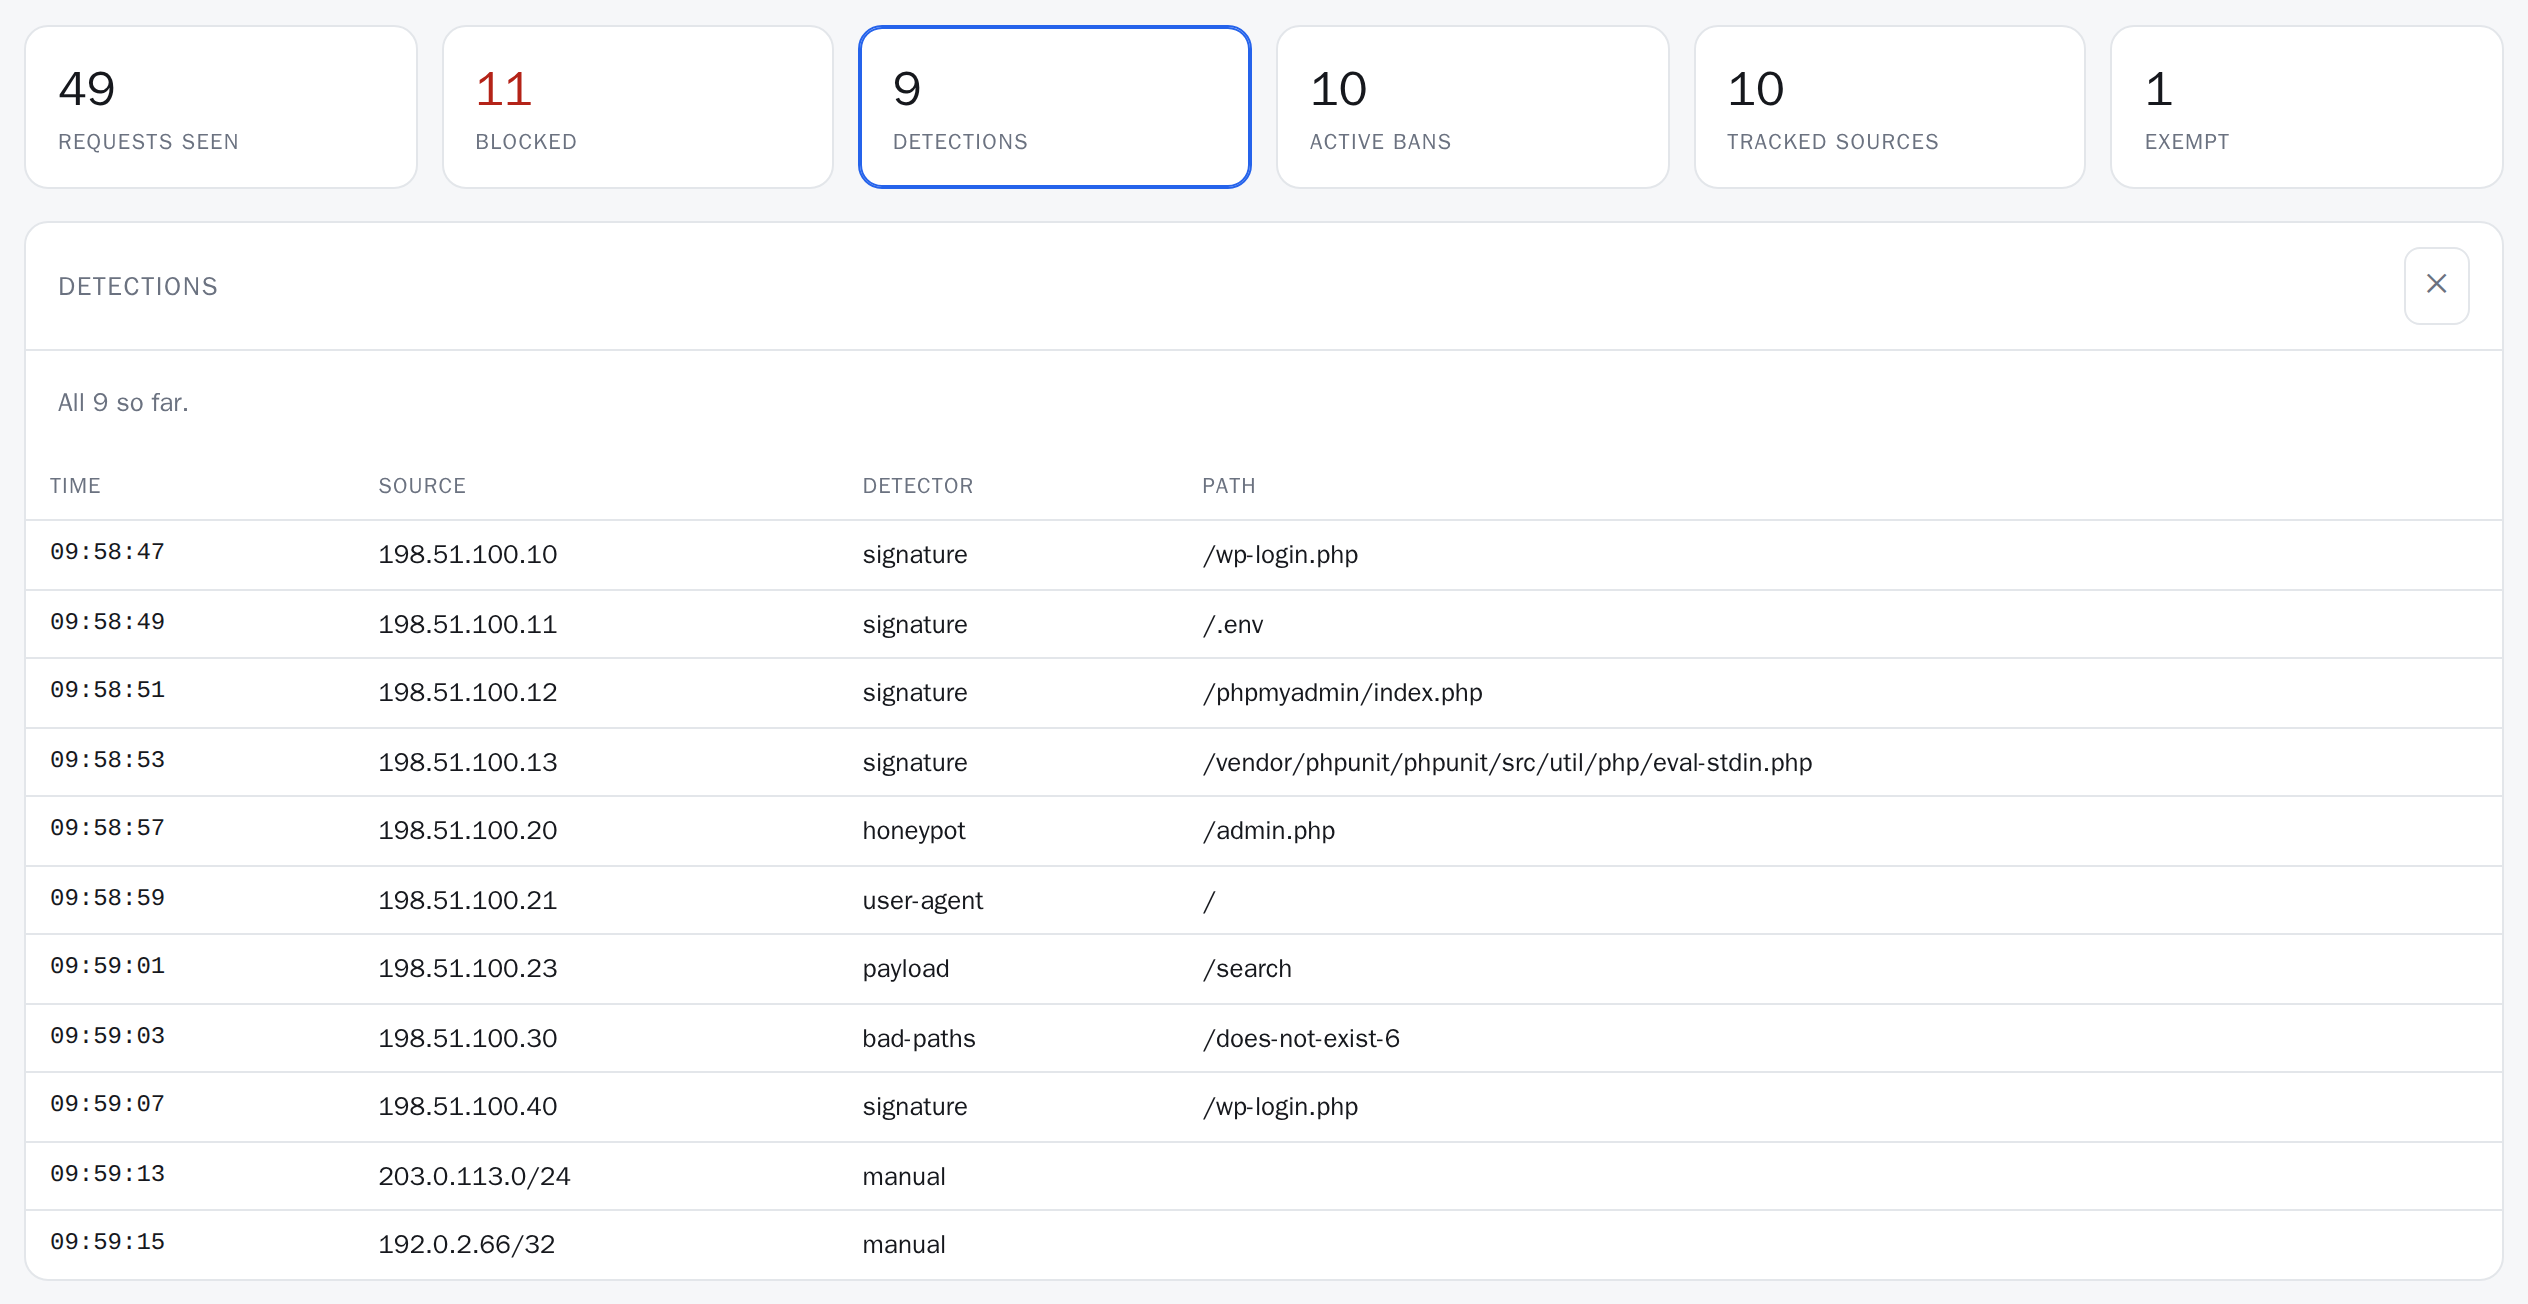
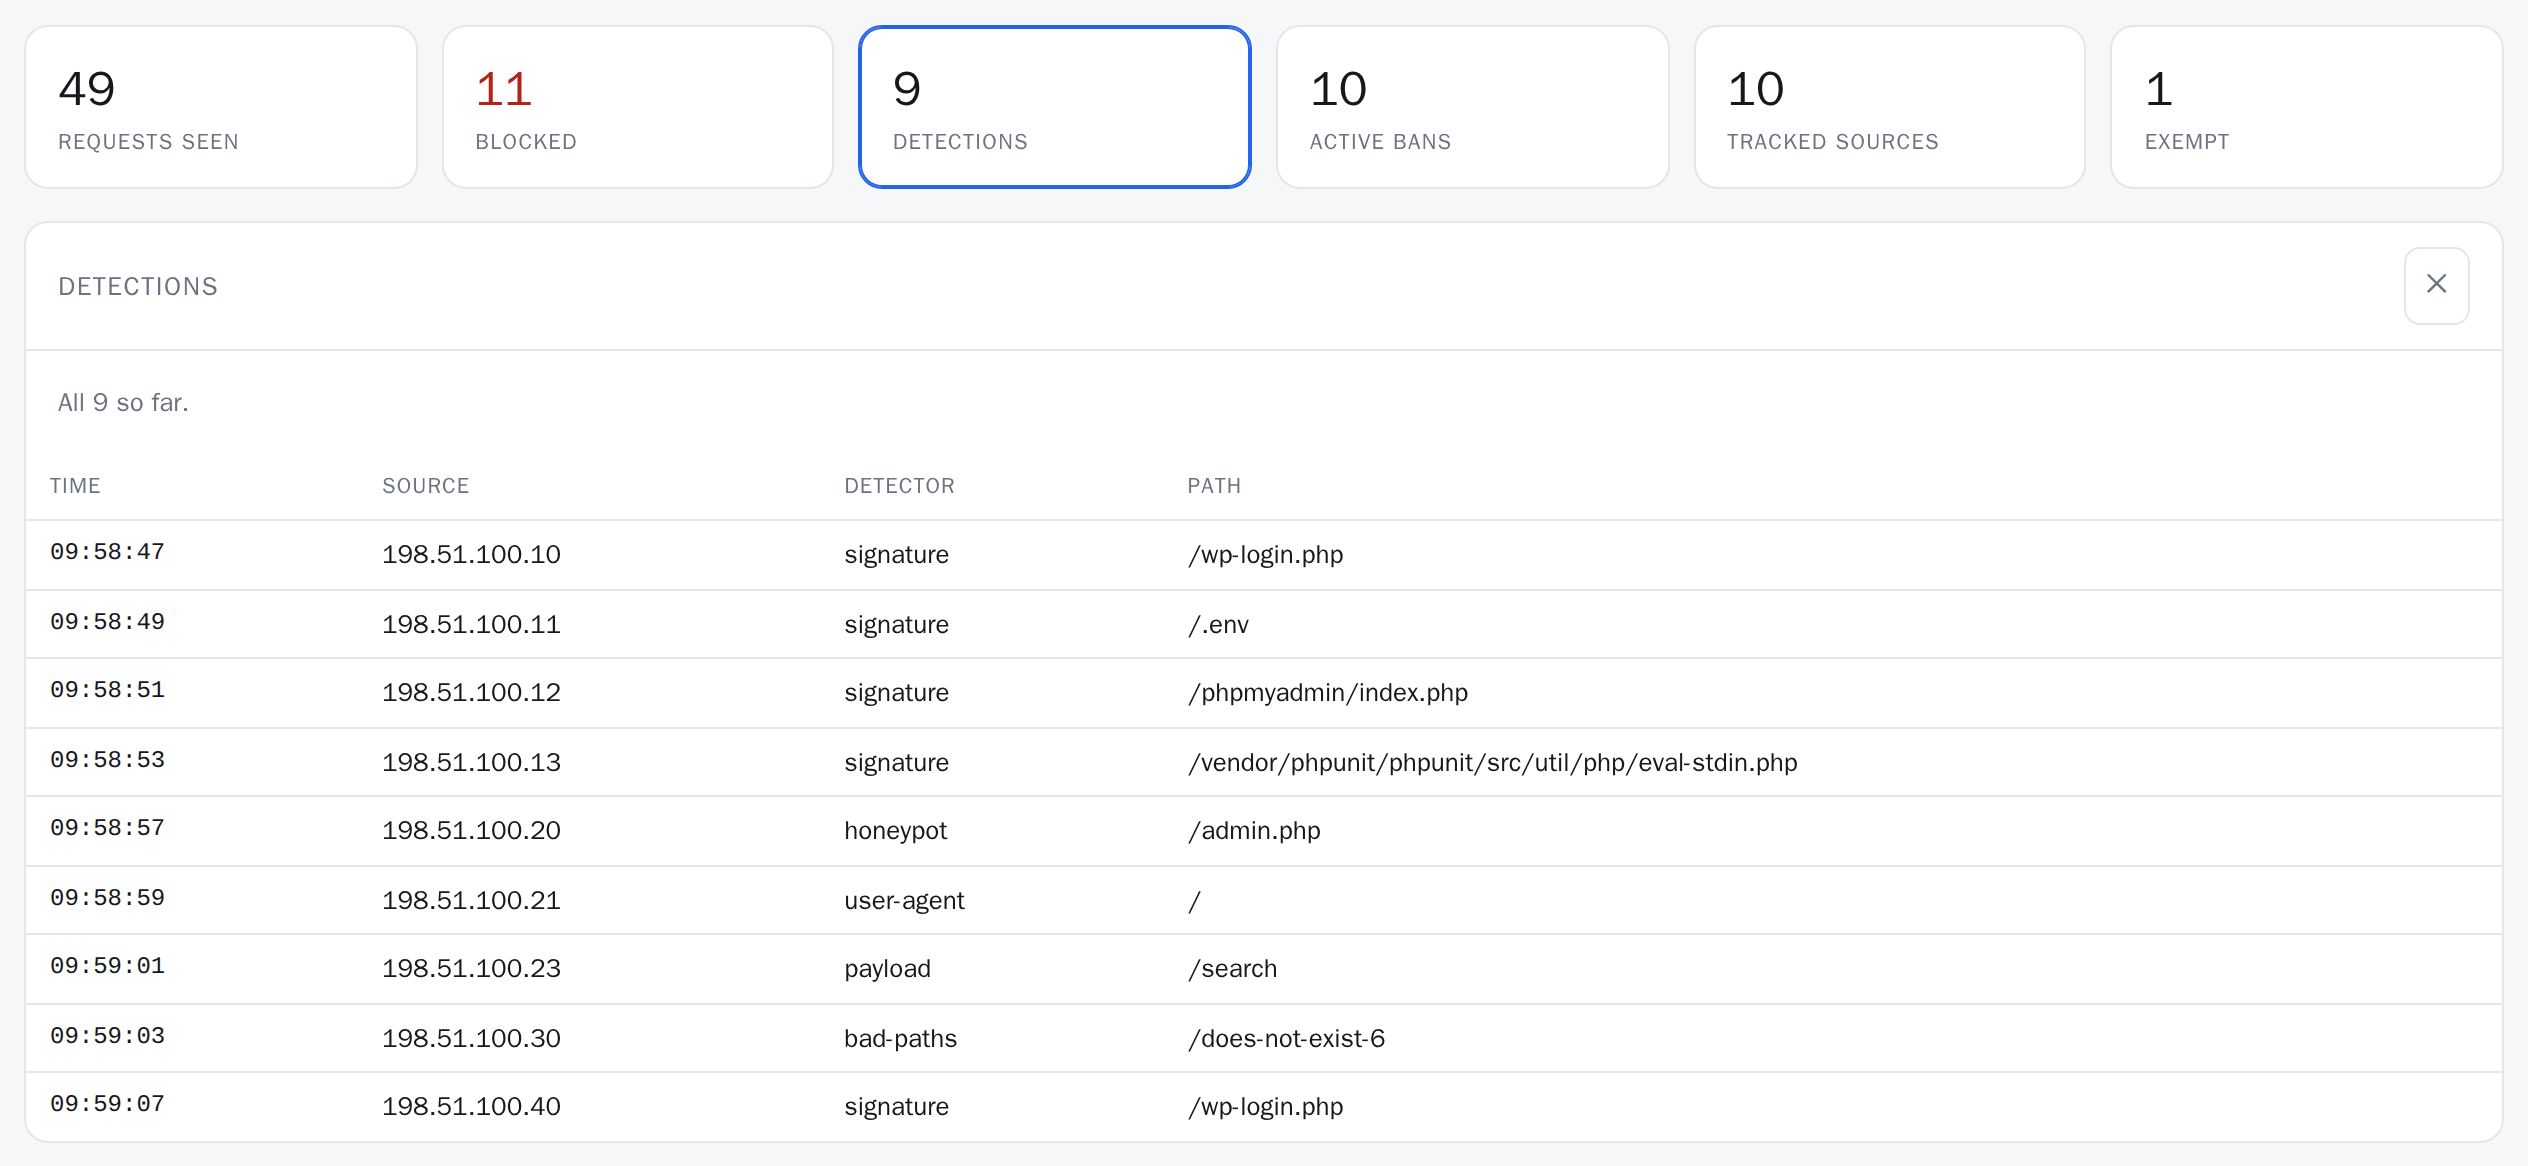
Leave manual bans out of the Detections drill-down
The Detections tile counts detector bans only, but its list showed every
ban event, so it said "All 9 so far." over 11 rows. The list now skips
manual bans, which the Active bans panel and the activity feed still
show. The tour checks that note and row count match the counter; the
drill-down screenshot and its captions are updated.

diff --git a/e2e/docs/tour.spec.ts b/e2e/docs/tour.spec.ts
@@ -162,10 +162,13 @@ test.describe('with bans', () => {
   })
 
   test('tile drill-down', async ({ page }) => {
+    const { stats } = await api<{ stats: { detections: number } }>('/api/state')
     await open(page)
     await page.click('.tile[data-kind=detections]')
     await expect(page.locator('#tile-detail-title')).toHaveText('Detections')
-    await expect(page.locator('#tile-detail-body tbody tr').first()).toBeVisible()
+    // The list matches its counter: manual bans are not detections.
+    await expect(page.locator('#tile-detail-note')).toHaveText(`All ${stats.detections} so far.`)
+    await expect(page.locator('#tile-detail-body tbody tr')).toHaveCount(stats.detections)
     await shoot(page, 'console-tile-detail', [page.locator('#tiles'), page.locator('#tile-detail')])
   })
 

diff --git a/admin_ui.go b/admin_ui.go
@@ -543,7 +543,9 @@ var TILE_DETAIL = {
     cols: ["time", "source", "detector", "path"],
     events: "ban",
     rows: function (s) {
-      return (s.events || []).filter(function (e) { return e.kind === "ban"; })
+      // Manual bans are ban events too, but not detections: the tile's counter
+      // leaves them out, so the list does as well.
+      return (s.events || []).filter(function (e) { return e.kind === "ban" && e.detector !== "manual"; })
         .slice().reverse().map(function (e) {
           return [fmtTime(e.time) + (e.dryRun ? " (dry)" : ""), e.client || e.key, e.detector, e.path];
         });

diff --git a/README.md b/README.md
@@ -57,7 +57,7 @@ editor**. It is one self-contained page: no build step, no npm, no CDN.
 
 <img src="docs/screenshots/console-activity.png" alt="The live activity feed filtered to bans: time, source, detector, method, path and the rule that fired" width="800">
 
-<img src="docs/screenshots/console-tile-detail.png" alt="The detections tile opened: each ban with its time, source, detector and path" width="800">
+<img src="docs/screenshots/console-tile-detail.png" alt="The detections tile opened: each detection with its time, source, detector and path" width="800">
 
 <img src="docs/screenshots/console-rule-editor.png" alt="The rule editor with an unsaved honeypot path: one form group per detector, the changed field marked" width="800">
 

diff --git a/docs/screenshots/README.md b/docs/screenshots/README.md
@@ -36,10 +36,10 @@ A fresh instance before anything has been probed.
 
 ## Counter drill-down
 
-Each counter opens the records behind it; here, every ban the event log holds,
-manual ones included.
+Each counter opens the records behind it; here, every detection the event log
+holds (manual bans are not detections, so they are not listed).
 
-<img src="console-tile-detail.png" alt="The detections tile opened: time, source, detector and path for each ban, manual bans last" width="800">
+<img src="console-tile-detail.png" alt="The detections tile opened: time, source, detector and path for each detection" width="800">
 
 ## Live activity
 
